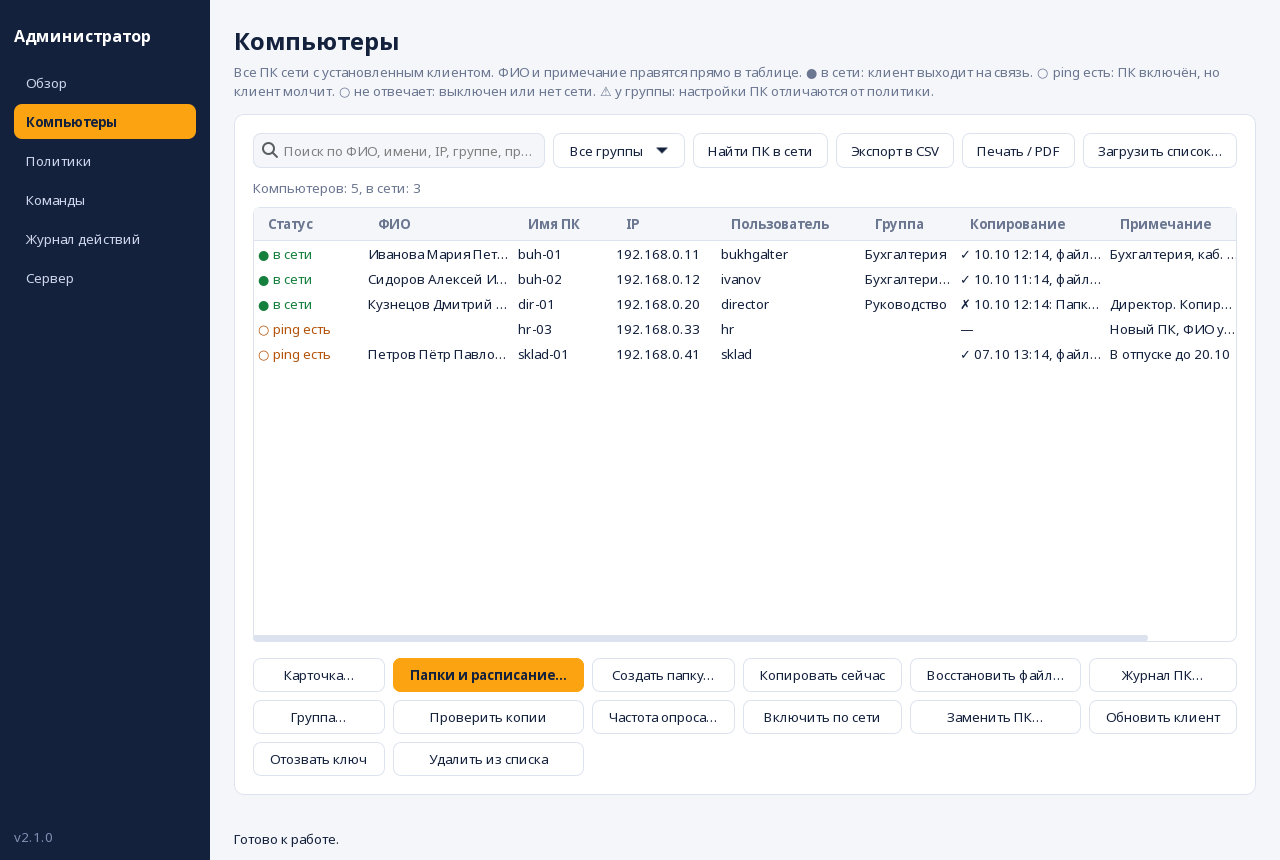
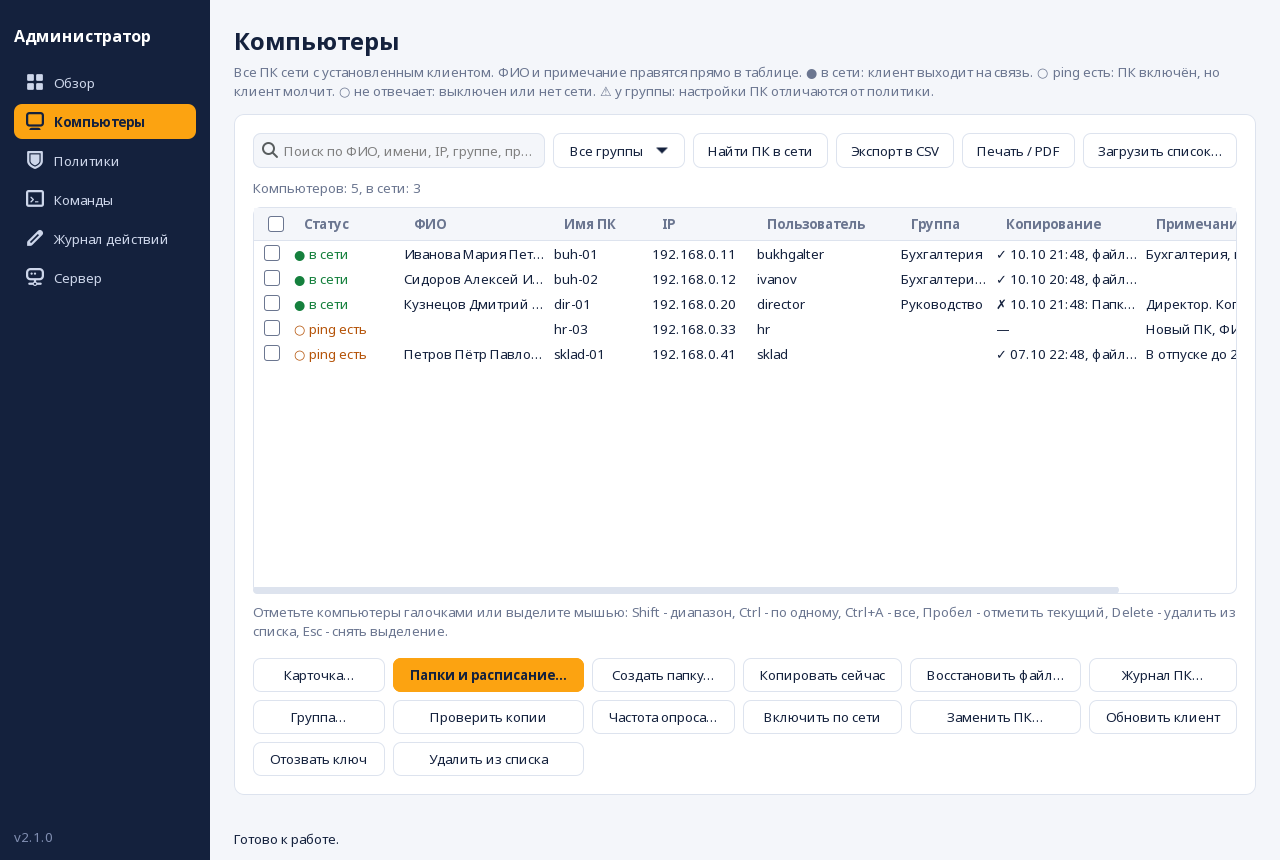
Окно клиента: лента разделов с крупными значками сверху; в панели администратора меню слева со значками
Навигация _Shell теперь умеет два вида: вертикальный список (панель) и лента (клиент). Значки - символьные из системной
темы, по списку запасных имён. Обновлены скриншоты и README.

diff --git a/crontab-save.py b/crontab-save.py
@@ -4328,6 +4328,17 @@ list.nav row {{ padding: 8px 12px; margin: 2px 0; border-radius: 8px; }}
 list.nav row:hover {{ background-color: {side_hover}; }}
 list.nav row:selected {{ background-color: {accent}; }}
 list.nav row:selected label {{ color: {accent_fg}; font-weight: bold; }}
+list.nav row:selected image {{ color: {accent_fg}; }}
+list.nav image {{ color: {side_fg}; }}
+.side-panel.ribbon {{ padding: 8px 14px 0 14px; }}
+.ribbon .rb {{ background-image: none; background-color: transparent; border: 0; border-radius: 9px 9px 0 0; box-shadow: none;
+    padding: 8px 14px 9px 14px; min-width: 92px; }}
+.ribbon .rb:hover {{ background-color: {side_hover}; }}
+.ribbon .rb:checked {{ background-color: {bg}; }}
+.side-panel .rb label {{ color: {side_fg}; }}
+.side-panel .rb image {{ color: {side_fg}; }}
+.side-panel .rb:checked label {{ color: {fg}; font-weight: bold; }}
+.side-panel .rb:checked image {{ color: {fg}; }}
 
 button.day-btn {{ border-radius: 17px; min-width: 34px; min-height: 34px; padding: 0; background-image: none;
     background-color: {card}; border: 1px solid {line}; color: {fg}; box-shadow: none; }}
@@ -4694,11 +4705,42 @@ def _text_view(editable: bool, mono: bool = False) -> Gtk.TextView:
     return view
 
 
-class _Shell(Gtk.Window if Gtk else object):
-    """Окно с боковым меню, страницами и строкой состояния: основа окна клиента и панели администратора."""
+# Значки разделов: имена из системной темы значков, по порядку предпочтения (какой найдётся, тот и берём).
+NAV_ICONS: Dict[str, List[str]] = {
+    "backup": ["document-save-symbolic", "drive-harddisk-symbolic", "media-floppy-symbolic"],
+    "network": ["folder-remote-symbolic", "network-workgroup-symbolic", "network-server-symbolic"],
+    "history": ["document-open-recent-symbolic", "preferences-system-time-symbolic", "appointment-soon-symbolic"],
+    "restore": ["edit-undo-symbolic", "document-revert-symbolic", "view-refresh-symbolic"],
+    "log": ["text-x-generic-symbolic", "document-properties-symbolic", "view-list-symbolic"],
+    "server": ["network-server-symbolic", "network-wired-symbolic", "computer-symbolic"],
+    "overview": ["view-grid-symbolic", "view-app-grid-symbolic", "utilities-system-monitor-symbolic"],
+    "computers": ["computer-symbolic", "video-display-symbolic"],
+    "policies": ["security-high-symbolic", "emblem-system-symbolic", "preferences-system-symbolic"],
+    "commands": ["utilities-terminal-symbolic", "system-run-symbolic"],
+    "audit": ["document-edit-symbolic", "text-x-generic-symbolic", "view-list-symbolic"],
+}
 
-    def __init__(self, title: str, side_title: str, size: Tuple[int, int] = (1060, 800)):
+
+def nav_icon(page: str, pixel_size: int = 18) -> Optional["Gtk.Image"]:
+    """Значок раздела или None, если подходящего нет в теме (тогда в меню останется только подпись)."""
+    theme = Gtk.IconTheme.get_default()
+    for name in NAV_ICONS.get(page, []):
+        if theme.has_icon(name):
+            image = Gtk.Image.new_from_icon_name(name, Gtk.IconSize.BUTTON)
+            image.set_pixel_size(pixel_size)
+            return image
+    return None
+
+
+class _Shell(Gtk.Window if Gtk else object):
+    """Окно с меню разделов, страницами и строкой состояния: основа окна клиента и панели администратора.
+
+    Меню - либо вертикальный список слева (панель администратора), либо лента с крупными значками сверху (ribbon)."""
+
+    def __init__(self, title: str, side_title: str, size: Tuple[int, int] = (1060, 800), ribbon: bool = False):
         super().__init__(title=title)
+        self.ribbon = ribbon
+        self._nav_buttons: Dict[str, "Gtk.RadioButton"] = {}
         self.set_default_size(*size)
         self.busy = False
         self._destroyed = False  # ответы из фона, пришедшие после закрытия окна, игнорируются
@@ -4711,21 +4753,35 @@ class _Shell(Gtk.Window if Gtk else object):
         Gtk.StyleContext.add_provider_for_screen(Gdk.Screen.get_default(), provider,
                                                  Gtk.STYLE_PROVIDER_PRIORITY_APPLICATION)
 
-        outer = Gtk.Box(orientation=Gtk.Orientation.HORIZONTAL)
+        outer = Gtk.Box(orientation=Gtk.Orientation.VERTICAL if ribbon else Gtk.Orientation.HORIZONTAL)
         self.add(outer)
-        side = Gtk.Box(orientation=Gtk.Orientation.VERTICAL, spacing=6)
-        side.get_style_context().add_class("side-panel")
-        side.set_size_request(210, -1)
-        side.pack_start(_label(side_title, "side-title"), False, False, 10)
-        self.nav = Gtk.ListBox()
-        self.nav.get_style_context().add_class("nav")
-        self.nav.set_selection_mode(Gtk.SelectionMode.SINGLE)
-        self.nav.connect("row-selected", self._on_nav_selected)
-        side.pack_start(self.nav, False, False, 0)
-        self.side_footer = Gtk.Box(orientation=Gtk.Orientation.VERTICAL, spacing=4)
-        self.side_footer.pack_start(_label(f"v{__version__}", "side-ver"), False, False, 0)
-        side.pack_end(self.side_footer, False, False, 0)
-        outer.pack_start(side, False, False, 0)
+        if ribbon:
+            band = Gtk.Box(spacing=2)
+            band.get_style_context().add_class("side-panel")
+            band.get_style_context().add_class("ribbon")
+            self.nav_box = Gtk.Box(spacing=2)
+            band.pack_start(self.nav_box, False, False, 0)
+            self.nav = None
+            self.side_footer = Gtk.Box(spacing=10)
+            self.side_footer.set_valign(Gtk.Align.CENTER)
+            self.side_footer.set_margin_bottom(8)
+            self.side_footer.pack_start(_label(f"v{__version__}", "side-ver"), False, False, 0)
+            band.pack_end(self.side_footer, False, False, 0)
+            outer.pack_start(band, False, False, 0)
+        else:
+            side = Gtk.Box(orientation=Gtk.Orientation.VERTICAL, spacing=6)
+            side.get_style_context().add_class("side-panel")
+            side.set_size_request(210, -1)
+            side.pack_start(_label(side_title, "side-title"), False, False, 10)
+            self.nav = Gtk.ListBox()
+            self.nav.get_style_context().add_class("nav")
+            self.nav.set_selection_mode(Gtk.SelectionMode.SINGLE)
+            self.nav.connect("row-selected", self._on_nav_selected)
+            side.pack_start(self.nav, False, False, 0)
+            self.side_footer = Gtk.Box(orientation=Gtk.Orientation.VERTICAL, spacing=4)
+            self.side_footer.pack_start(_label(f"v{__version__}", "side-ver"), False, False, 0)
+            side.pack_end(self.side_footer, False, False, 0)
+            outer.pack_start(side, False, False, 0)
 
         content = Gtk.Box(orientation=Gtk.Orientation.VERTICAL, spacing=0)
         outer.pack_start(content, True, True, 0)
@@ -4754,7 +4810,12 @@ class _Shell(Gtk.Window if Gtk else object):
 
     def _finish_pages(self) -> None:
         """Вызывается после создания всех страниц: выбирает первый пункт меню."""
-        self.nav.select_row(self.nav.get_row_at_index(0))
+        if self.ribbon:
+            first = next(iter(self._nav_buttons.values()))
+            first.set_active(True)
+            self._on_ribbon_toggled(first, next(iter(self._nav_buttons)))
+        else:
+            self.nav.select_row(self.nav.get_row_at_index(0))
 
     # ------------------------------------------------------------------
     # Вспомогательные диалоги и фоновые задачи
@@ -4862,9 +4923,30 @@ class _Shell(Gtk.Window if Gtk else object):
         sw = _scrolled(outer, shadow=False)
         sw.show()  # Stack переключает только видимые страницы
         self.stack.add_named(sw, name)
+        if self.ribbon:
+            group = next(iter(self._nav_buttons.values()), None)
+            button = Gtk.RadioButton.new_from_widget(group)
+            button.set_mode(False)  # без кружка-индикатора: обычная плоская кнопка, выбранная остаётся нажатой
+            button.get_style_context().add_class("rb")
+            column = Gtk.Box(orientation=Gtk.Orientation.VERTICAL, spacing=3)
+            icon = nav_icon(name, 26)
+            if icon is not None:
+                column.pack_start(icon, False, False, 0)
+            column.pack_start(Gtk.Label(label=nav_title), False, False, 0)
+            button.add(column)
+            button.set_tooltip_text(nav_title)
+            button.connect("toggled", self._on_ribbon_toggled, name)
+            self._nav_buttons[name] = button
+            self.nav_box.pack_start(button, False, False, 0)
+            return card
         row = Gtk.ListBoxRow()
         row.page_name = name
-        row.add(_label(nav_title))
+        line = Gtk.Box(spacing=10)
+        icon = nav_icon(name, 18)
+        if icon is not None:
+            line.pack_start(icon, False, False, 0)
+        line.pack_start(_label(nav_title), False, False, 0)
+        row.add(line)
         self.nav.add(row)
         return card
 
@@ -4872,7 +4954,15 @@ class _Shell(Gtk.Window if Gtk else object):
         if row is not None:
             self.stack.set_visible_child_name(row.page_name)
 
+    def _on_ribbon_toggled(self, button, name: str) -> None:
+        if button.get_active():
+            self.stack.set_visible_child_name(name)
+
     def _goto(self, name: str) -> None:
+        if self.ribbon:
+            if name in self._nav_buttons:
+                self._nav_buttons[name].set_active(True)
+            return
         for row in self.nav.get_children():
             if row.page_name == name:
                 self.nav.select_row(row)
@@ -4883,7 +4973,7 @@ class _Shell(Gtk.Window if Gtk else object):
 
 class App(_Shell):
     def __init__(self, config_path: Path):
-        super().__init__("Резервное копирование", "Резервная копия")
+        super().__init__("Резервное копирование", "Резервная копия", ribbon=True)
         self.config_path = Path(config_path)
         self.net_absent: List[Requirement] = []
 

diff --git a/tests/test_crontab_save.py b/tests/test_crontab_save.py
@@ -704,6 +704,54 @@ class GuiTests(unittest.TestCase):
         self.app._refresh_server_status()
         self.assertIn("сервер не запущен", self.app.srv_state.get_text())
 
+    def test_client_menu_is_a_ribbon_of_big_icons_on_top(self):
+        self.assertTrue(self.app.ribbon)
+        self.assertIsNone(self.app.nav)                                # бокового списка нет
+        self.assertEqual(list(self.app._nav_buttons), ["backup", "network", "history", "restore", "log", "server"])
+        self.assertEqual(self.app.current_page(), "backup")
+        self.assertTrue(self.app._nav_buttons["backup"].get_active())
+        top = self.app._nav_buttons["backup"].translate_coordinates(self.app, 0, 0)
+        self.assertLess(top[1], 40)                                    # кнопки сверху окна, а не слева
+        self.app._goto("log")
+        self.assertEqual(self.app.current_page(), "log")
+        self.assertTrue(self.app._nav_buttons["log"].get_active() and not self.app._nav_buttons["backup"].get_active())
+        self.app._goto("backup")
+
+    def test_ribbon_button_has_icon_above_label(self):
+        theme = Gtk.IconTheme.get_default()
+        if not any(theme.has_icon(n) for n in M.NAV_ICONS["backup"]):
+            self.skipTest("в теме значков нет подходящих символьных значков")
+        column = self.app._nav_buttons["backup"].get_child()
+        kinds = [type(c).__name__ for c in column.get_children()]
+        self.assertEqual(kinds, ["Image", "Label"])
+
+    def test_real_click_on_ribbon_switches_page(self):
+        try:
+            from Xlib import X, display
+            from Xlib.ext import xtest
+            xd = display.Display(os.environ["DISPLAY"])
+            self.addCleanup(xd.close)
+        except Exception:  # noqa: BLE001
+            self.skipTest("нужны python-xlib и сервер X с расширением XTEST")
+        button = self.app._nav_buttons["restore"]
+        top, alloc = button.get_toplevel(), button.get_allocation()
+        x, y = button.translate_coordinates(top, alloc.width // 2, alloc.height // 2)
+        ox, oy = top.get_window().get_origin()[1:]
+        xtest.fake_input(xd, X.MotionNotify, x=ox + x, y=oy + y)
+        xd.sync()
+        pump(timeout=0.2)
+        xtest.fake_input(xd, X.ButtonPress, 1)
+        xd.sync()
+        pump(timeout=0.1)
+        xtest.fake_input(xd, X.ButtonRelease, 1)
+        xd.sync()
+        self.assertTrue(pump(lambda: self.app.current_page() == "restore", timeout=3))
+
+    def test_missing_icon_theme_leaves_label_only(self):
+        with mock.patch.object(Gtk.IconTheme, "has_icon", return_value=False):
+            self.assertIsNone(M.nav_icon("backup"))
+            self.assertIsNone(M.nav_icon("нет-такого-раздела"))
+
     def test_empty_form_shows_readable_errors(self):
         self.app.source_entry.set_text("")
         self.app.dest_entry.set_text("")
@@ -3829,6 +3877,18 @@ class AdminPanelFeaturesTests(AgentBase):
         clipboard = Gtk.Clipboard.get(M.Gdk.SELECTION_CLIPBOARD)
         self.assertEqual(clipboard.wait_for_text(), self.ctx.client_key)
         self.assertEqual(self.shown, [])                                     # без сообщений об ошибках
+
+    def test_admin_menu_stays_on_the_left_with_icons(self):
+        self.assertFalse(self.panel.ribbon)
+        self.assertIsNotNone(self.panel.nav)
+        names = [row.page_name for row in self.panel.nav.get_children()]
+        self.assertEqual(names, ["overview", "computers", "policies", "commands", "audit", "server"])
+        x = self.panel.nav.translate_coordinates(self.panel, 0, 0)[0]
+        self.assertLess(x, 60)                                         # слева
+        theme = Gtk.IconTheme.get_default()
+        if any(theme.has_icon(n) for n in M.NAV_ICONS["computers"]):
+            row = self.panel.nav.get_children()[1]
+            self.assertEqual([type(c).__name__ for c in row.get_child().get_children()], ["Image", "Label"])
 
     def test_viewer_has_no_generate_button(self):
         viewer = self.open_panel(self.admin("POST", "/admins", {"name": "v", "role": "viewer"})["key"], "v")
